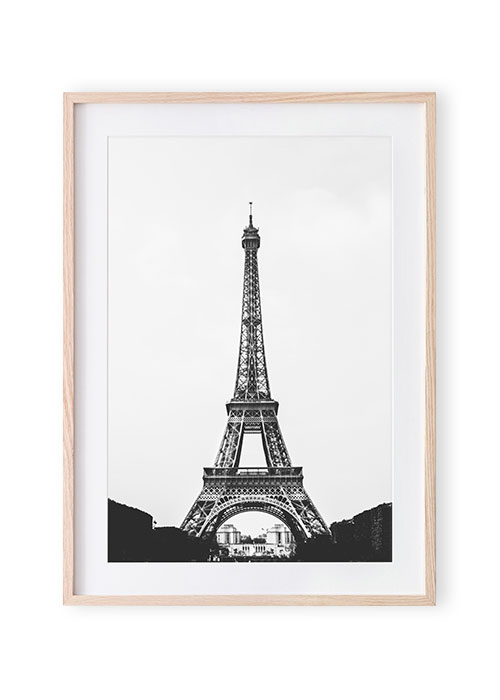
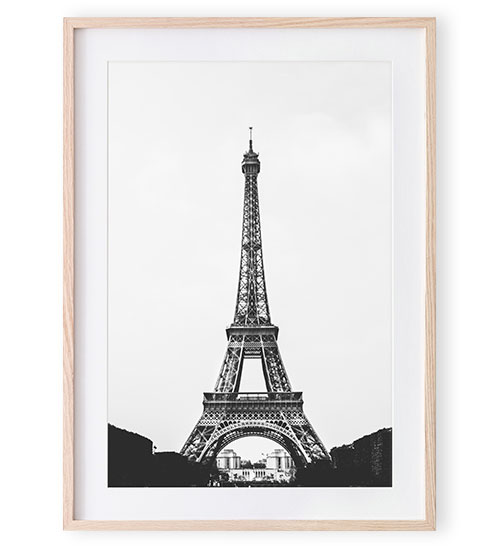
Resize listing images and re-optimize

diff --git a/css/main.css b/css/main.css
@@ -279,24 +279,20 @@ p {
   padding: 0 .5rem 1rem;
 }
 
-  /* .listing-image {
-    display: block;
-    width: 100%;
-  } */
-
   .listing-wrapper {
     overflow-x: visible;
     white-space: normal;
-    /* display: grid;
-    grid-template-columns: repeat(3, 1fr); */
-    /* width: 100%;
-    height: 100%; */
   }
+
+ article {
+  display: grid;
+  grid-template-columns: 2;
+}
 
 footer {
   text-align: center;
 }
-
+}
 
 @media only screen and (min-width: 75em) {
 
